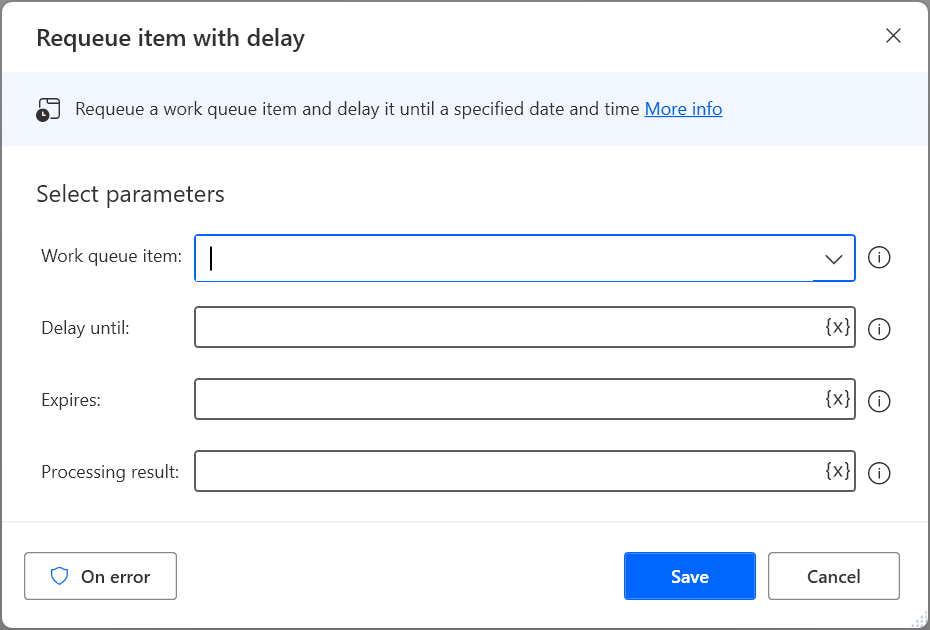
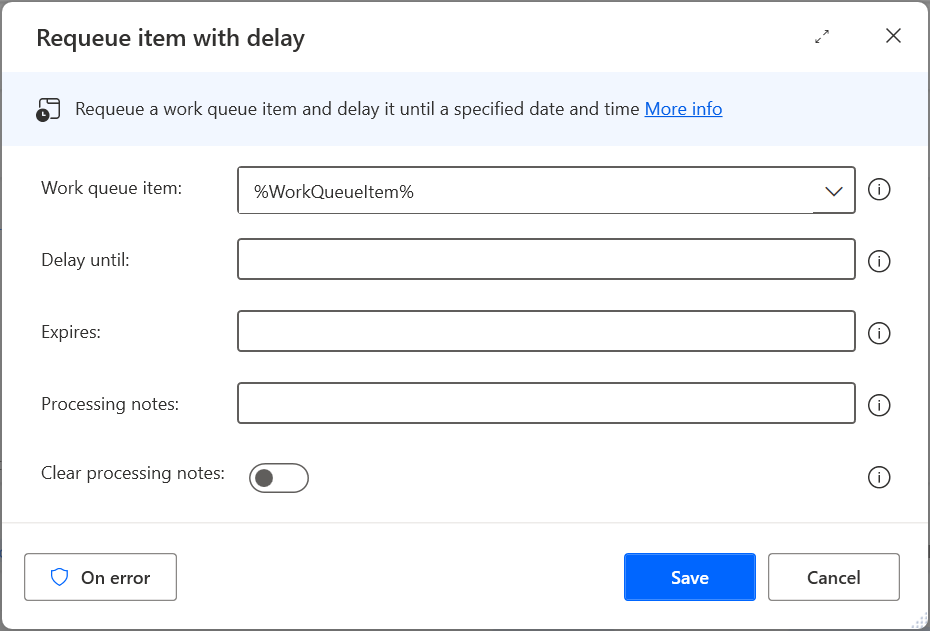
Work Queue PAD Action Updates

diff --git a/articles/desktop-flows/actions-reference/workqueues.md b/articles/desktop-flows/actions-reference/workqueues.md
@@ -68,7 +68,8 @@ The **Update work queue item action** action requires the following arguments.
   |----------      |----------|---------|---------------|-----------------|
   | **Work queue item** |No    |Text |               |Work queue item variable that has been previously returned by the queue orchestrator|
 | **Status** |No    |Processed, Generic Exception| Processed |Update the work queue item being processed using a status from the list of options.|
-| **Processing result** | Yes | Text| | Custom processing result or value to set append  to the queue item being processed |
+| **Processing notes** | Yes | Text| | Custom processing notes or value to set append  to the queue item being processed |
+| **Clear processing notes** | Yes | Boolean| False | When enabled, it hides and clears the processing notes field on this screen and removes any processing notes from the database that have been previously captured for this item |
 
 #### Exceptions
 
@@ -98,6 +99,7 @@ The **Add work queue item** action requires the following arguments.
 | **Input** | No | Text value, Numeric value| | The data which belongs to the value column to be processed|
 | **Expires** | Yes | Datetime| | The datetime value set to expire the queue item, otherwise adopts the default value if one is set for the queue|
 | **Processing notes** | Yes | Text value, Numeric value| | Custom processing notes to be added to the new queue item|
+| **Has unique id or reference** | Yes | Text value, Numeric value| | When enabled, a value should be provided that is unique within this queue. If left empty, a unique value in the format of `system-<GUID>` will be automatically provided by the system |
 
 #### Variables produced
 
@@ -129,7 +131,8 @@ The **Requeue item with delay** action requires the following arguments.
   | **Work queue item** |No    |Work queue item |               |The work queue item to add the item into|
 | **Delay until** |No    |Datetime value| Normal |The datetime value applied to delay the queue item until|
 | **Expires** | Yes | Datetime value| | Custom expiration time for the item being requeued|
-| **Processing result** | Yes | Text value, Numeric value| | Custom processing result to be added to the new queue item|
+| **Processing notes** | Yes | Text value, Numeric value| | Custom processing notes to be added to the new queue item|
+| **Clear processing notes** | Yes | Boolean| False | When enabled, it hides and clears the processing notes field on this screen and removes any processing notes from the database that have been previously captured for this item |
 
 #### Exceptions
 
@@ -138,6 +141,30 @@ The **Requeue item with delay** action requires the following arguments.
 | **Work queue not found** | The value entered into the work queue parameter is invalid|
 | **Work queue item not found** | The queue item value is invalid|
 | **Failed to requeue work queue item** | The work queue item couldn't be added into the work queue.  Bad request - error in query syntax |
+
+## Update work queue item processing notes
+
+The **Update work queue item processing notes** action allows users to update or clear processing notes of the selected work queue item without changing its state or any other property.
+
+:::image type="content" source="media\workqueues\UpdateWorkQueueItemProcessingNotes.png" alt-text="Screenshot of the Update Work Queue Item Processing Notes action." lightbox="media\workqueues\UpdateWorkQueueItemProcessingNotes.png":::
+
+### updateworkqueueitemprocessingnotesaction
+
+The **Update work queue item processing notes action** action requires the following arguments.
+
+| Argument       | Optional | Accepts | Default Value | Description     |
+  |----------      |----------|---------|---------------|-----------------|
+  | **Work queue item** |No    |Text | |Work queue item variable that has been previously returned by the queue orchestrator|
+| **Processing notes** | Yes | Text| | Custom processing result or value to set append  to the queue item being processed |
+| **Clear processing notes** | Yes | Boolean| False | When enabled, it hides and clears the processing notes field on this screen and removes any processing notes from the database that have been previously captured for this item |
+
+#### Exceptions
+
+| Argument       | Description |
+|----------------|----------|
+| **Work queue not found** | The work queue associated with the item has either been deleted or is no longer accessible |
+| **Work queue item not found** | The work queue item is invalid|
+| **Failed to append the processing results** | The work queue item being updated has encountered an unexpected error, check the error message for more details |
 
 ### See also
 
